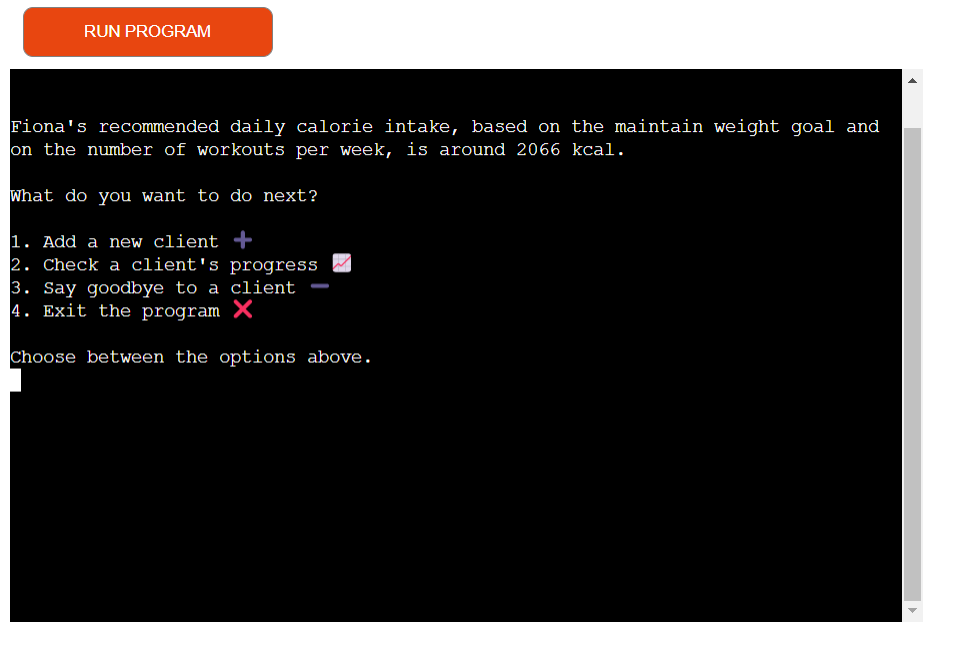
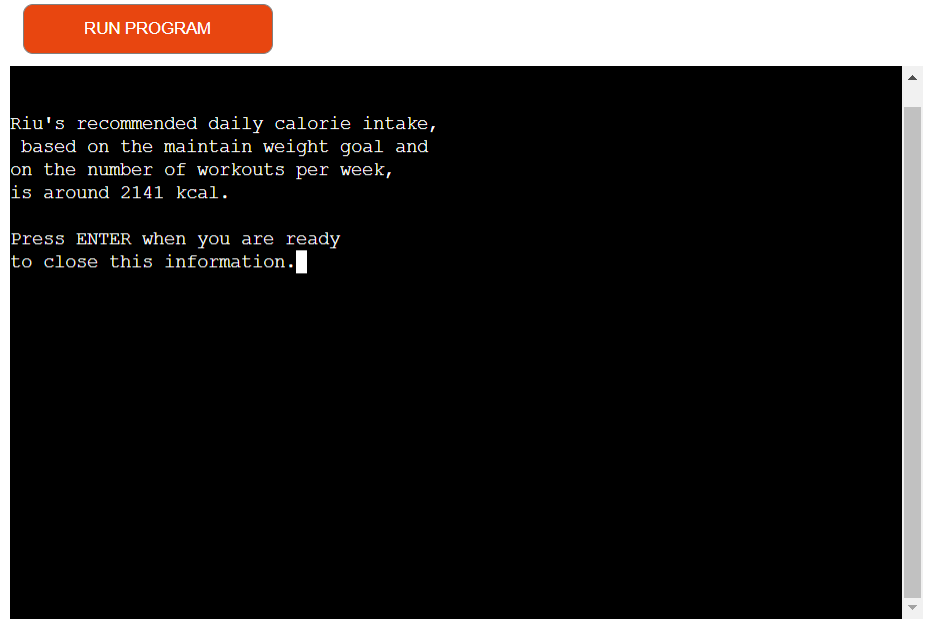
Complete features section of README file

diff --git a/run.py b/run.py
@@ -544,7 +544,7 @@ def user_done():
     when done with the outputted information
     """
     enter = input("Press ENTER when you are ready\n"
-                          "to close this information.")
+                  "to close this information.")
     while True:
         if enter == "":
             os.system('cls' if os.name == 'nt' else 'clear')
@@ -592,14 +592,18 @@ def check_new_client_data(client_data):
                                    client_data.goal,
                                    client_data.tdee)
             sleep(0.1)
-            os.system('cls' if os.name == 'nt' else 'clear')                       
+            os.system('cls' if os.name == 'nt' else 'clear')     
+            print("Processing..\n\n")
+            progress_bar()
+            sleep(1.5)
+            os.system('cls' if os.name == 'nt' else 'clear')                  
             words = (
                     f"\n\n{client_data.name}'s recommended daily calorie "
-                    f"intake,\n based on the {client_data.goal} goal and\n"
+                    f"intake,\nbased on the {client_data.goal} goal and\n"
                     f"on the number of workouts per week,\n"
                     f"is around {daily_calorie_intake} kcal.\n\n")
             typing_effect(words)
-            sleep(1)
+            sleep(2)
             user_done()
 
         elif correct.lower() == 'n':
@@ -720,7 +724,7 @@ def check_progress():
     based on what the original goal was,
     gives a positive or negative response.
     """
-    words = (f"You're checking a client's progress!\n\n"
+    words = (f"\nYou're checking a client's progress!\n\n"
              f"Please provide the information requested below "
              f"{emojize(':down_arrow:')}\n\n")
     typing_effect(words)
